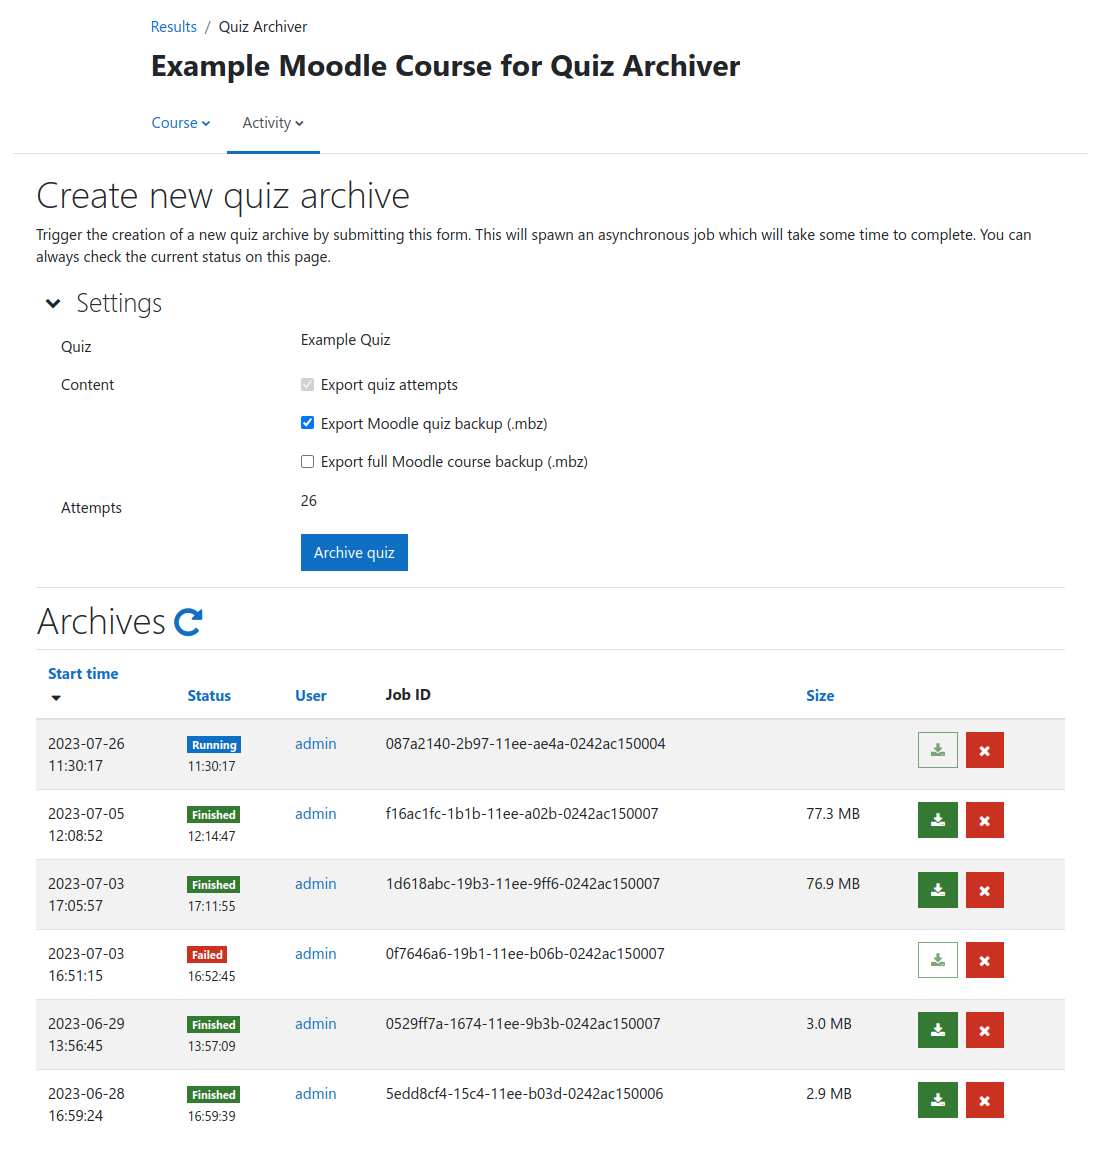
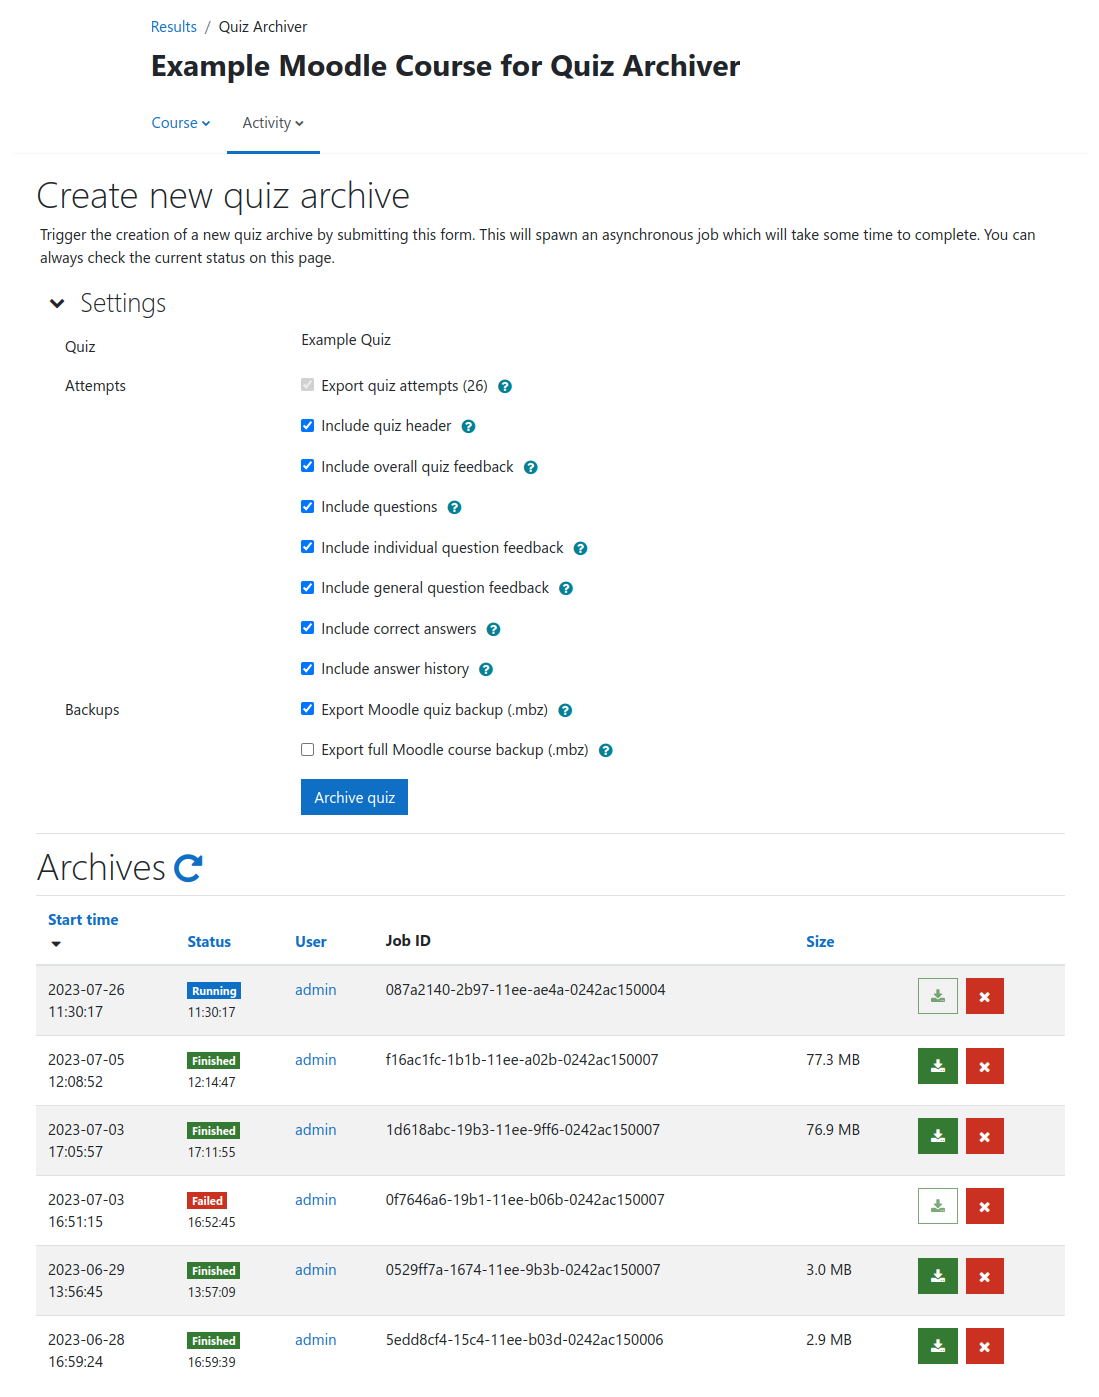
Update README to include report settings

diff --git a/README.md b/README.md
@@ -2,8 +2,11 @@
 
 Archives quiz attempts as PDF and HTML files for long-term storage independent
 of Moodle. Moodle backups (`.mbz`) of both the quiz and the whole course can be
-included if desired. A checksum is calculated for every file within the archive
+included, if desired. A checksum is calculated for every file within the archive
 as well as the archive itself, to allow verification of file integrity.
+Comprehensive archive settings allow to select what should be included in the
+generated reports on a fine-granular level (e.g., exclude example solutions,
+include answer history, ...).
 
 Quiz archives are created by an external quiz archive worker service to remove
 load from Moodle and to eliminate the need to install a large number of software
